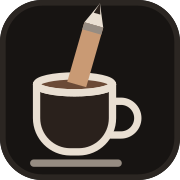
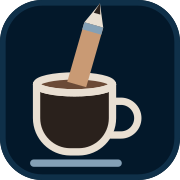
feat: completed minor fixes

Changed region(s): [[0.0, 0.0, 1.0, 1.0], [0.4444, 0.1111, 0.5833, 0.1944]]

diff --git a/app/globals.css b/app/globals.css
@@ -1,12 +1,12 @@
 :root {
   /* Warm-tinted neutrals. Coffee shows up in details (ring stain, steam, copy), not in the palette. */
-  --bg: #0f0d0c;
-  --surface: #171412;
-  --raised: #1e1a17;
-  --line: #2b2622;
-  --text: #ece6df;
-  --muted: #968c82;
-  --faint: #5d554e;
+  --bg: #010e1a;
+  --surface: #03182a;
+  --raised: #06223a;
+  --line: #0f3049;
+  --text: #e8eff5;
+  --muted: #84a0b6;
+  --faint: #4d6b83;
   --cream: #e9dfd2;
 
   /* Team colors, desaturated to sit on a dark ground. */
@@ -164,7 +164,7 @@ body {
 .btn:hover:not(:disabled) { border-color: var(--faint); }
 .btn:active:not(:disabled) { transform: scale(0.97); }
 .btn:disabled { opacity: 0.4; cursor: not-allowed; }
-.btn.primary { background: var(--cream); border-color: var(--cream); color: #1a1512; }
+.btn.primary { background: var(--cream); border-color: var(--cream); color: #010e1a; }
 .btn.primary:hover:not(:disabled) { background: #f3ebe0; }
 .btn.danger { background: #3a1d19; border-color: #5a2a24; color: #f0b3a9; }
 .btn.ghost { background: none; border-color: transparent; color: var(--muted); }
@@ -214,13 +214,13 @@ body {
   place-items: center;
   background: var(--cream);
   border-radius: 22px;
-  box-shadow: 0 0 0 1px #0004, 0 18px 40px -18px #000;
+  box-shadow: 0 0 0 1px #0004, 0 18px 40px -18px #000a;
 }
 .die[data-rolling="true"] { animation: tumble 0.5s linear infinite; }
 @keyframes tumble { to { transform: rotate(360deg); } }
 .pip { width: 1.25rem; height: 1.25rem; border-radius: 50%; background: transparent; }
-.pip[data-on="true"] { background: #1a1512; }
-.die-blank { grid-area: 2 / 2; font-family: var(--font-display); font-size: 3rem; line-height: 1; color: #8a7f74; }
+.pip[data-on="true"] { background: #010e1a; }
+.die-blank { grid-area: 2 / 2; font-family: var(--font-display); font-size: 3rem; line-height: 1; color: #6f8aa0; }
 
 /* Card + timer */
 .card-turn { gap: 1.5rem; }
@@ -328,7 +328,7 @@ body {
 }
 .face-back:hover { border-color: var(--faint); }
 .face-back .stain { transform: scale(1.3) rotate(20deg); opacity: 0.12; }
-.flip-title { position: relative; font-family: var(--font-display); font-size: 2.25rem; line-height: 1; }
+.flip-title { position: relative; margin-top: 0.75rem; font-size: 1.0625rem; font-weight: 600; line-height: 1; }
 .flip-note { position: relative; color: var(--muted); font-size: 0.9375rem; }
 .face-front {
   transform: rotateY(180deg);
@@ -343,7 +343,7 @@ body {
 .flipper { cursor: pointer; }
 .face-front:focus-visible { outline-offset: -3px; border-radius: 20px; }
 .flip-hint { margin: auto 0 0; padding-top: 0.75rem; font-size: 0.875rem; color: var(--faint); }
-.flip-category { position: relative; font-weight: 600; color: var(--team); font-size: 1.0625rem; }
+.flip-category { position: relative; font-family: var(--font-display); color: var(--team); font-size: clamp(2.25rem, 9vw, 2.75rem); line-height: 1.05; text-align: center; text-wrap: balance; }
 
 /* ---------- Modal ---------- */
 
@@ -358,7 +358,7 @@ body {
   box-shadow: 0 30px 80px -20px #000;
 }
 .modal[open] { animation: pop 0.25s var(--ease); }
-.modal::backdrop { background: #0a0807cc; backdrop-filter: blur(4px); }
+.modal::backdrop { background: #000810cc; backdrop-filter: blur(4px); }
 @keyframes pop { from { opacity: 0; transform: translateY(8px) scale(0.98); } }
 .modal-body { padding: 1.75rem 1.5rem 1.5rem; display: flex; flex-direction: column; gap: 1.25rem; }
 .modal-title { margin: 0; font-family: var(--font-display); font-weight: 400; font-size: 2.25rem; line-height: 1.05; }
@@ -412,6 +412,7 @@ body {
   .clock { width: 16rem; flex: none; }
   .clock-time { font-size: 4.5rem; }
   .face { min-height: 22rem; }
+  .flip-category { font-size: 3.5rem; }
   .face-front { padding: 2.5rem 2rem 1.25rem; }
   .face-front .words { grid-template-columns: 1fr 1fr; align-items: center; margin-block: auto; gap: 2rem; }
   .words li { font-size: clamp(2.5rem, 4vw, 3.75rem); }

diff --git a/lib/pictionary/engine.ts b/lib/pictionary/engine.ts
@@ -169,6 +169,16 @@ export const secondsRemaining = (state: GameState, now: number = Date.now()) =>
 export const getScoreboard = (state: GameState) =>
   state.teams.map((t) => ({ ...t, percent: Math.min(100, (t.score / state.winScore) * 100) }));
 
+/** Fills settings added after a game was saved, so older saves keep working. Same object if nothing is missing. */
+export function withDefaults(state: GameState): GameState {
+  if (typeof state.winScore === "number" && typeof state.turnSeconds === "number") return state;
+  return {
+    ...state,
+    winScore: typeof state.winScore === "number" ? state.winScore : DEFAULT_WIN_SCORE,
+    turnSeconds: typeof state.turnSeconds === "number" ? state.turnSeconds : DEFAULT_TURN_SECONDS,
+  };
+}
+
 /** Guards persisted state: it is only valid for the deck it was dealt from. */
 export function isValidState(value: unknown, deckSize: number): value is GameState {
   const s = value as GameState | null;
@@ -176,8 +186,9 @@ export function isValidState(value: unknown, deckSize: number): value is GameSta
     !!s &&
     typeof s === "object" &&
     s.deckSize === deckSize &&
-    typeof s.winScore === "number" &&
-    typeof s.turnSeconds === "number" &&
+    Number.isFinite(s.winScore) &&
+    Number.isFinite(s.turnSeconds) &&
+    (s.deadline === null || Number.isFinite(s.deadline)) &&
     Array.isArray(s.teams) &&
     s.teams.length > 0 &&
     Array.isArray(s.deckRemaining) &&

diff --git a/components/Logo.tsx b/components/Logo.tsx
@@ -4,8 +4,8 @@ import Image from "next/image";
 export function Logo({ size = 64 }: { size?: number }) {
   return (
     <svg width={size} height={size} viewBox="0 0 64 64" fill="none" aria-hidden>
-  <rect width="64" height="64" rx="15" fill="#171412"/>
-  <rect x="1" y="1" width="62" height="62" rx="14" stroke="#2b2622" strokeWidth="2"/>
+  <rect width="64" height="64" rx="15" fill="#03182a"/>
+  <rect x="1" y="1" width="62" height="62" rx="14" stroke="#0f3049" strokeWidth="2"/>
   <g strokeLinecap="round" strokeLinejoin="round">
     <path d="M40 36h3a6 6 0 0 1 0 12h-3.500" stroke="#e9dfd2" strokeWidth="2.600"/>
     <path d="M13 30h27v12a12 12 0 0 1-12 12h-3a12 12 0 0 1-12-12z" fill="#2a211c" stroke="#e9dfd2" strokeWidth="2.600"/>
@@ -14,10 +14,10 @@ export function Logo({ size = 64 }: { size?: number }) {
       <rect x="-3.500" y="-23" width="7" height="22" fill="#c99a74"/>
       <path d="M-3.500-23L0-31l3.500 8z" fill="#e9dfd2"/>
       <path d="M-1.200-27.200L0-31l1.200 3.800z" fill="#2a211c"/>
-      <rect x="-3.500" y="-23" width="7" height="2.600" fill="#968c82"/>
+      <rect x="-3.500" y="-23" width="7" height="2.600" fill="#84a0b6"/>
     </g>
     <path d="M13 30a13.500 3 0 0 0 27 0" stroke="#e9dfd2" strokeWidth="2.600"/>
-    <path d="M12 58h30" stroke="#968c82" strokeWidth="2.600"/>
+    <path d="M12 58h30" stroke="#84a0b6" strokeWidth="2.600"/>
   </g>
     </svg>
   );

diff --git a/lib/pictionary/store.ts b/lib/pictionary/store.ts
@@ -4,6 +4,7 @@ import {
   isValidState,
   resolveTurn,
   revealCard,
+  withDefaults,
   dismissResult,
   showCard,
   type Card,
@@ -21,7 +22,7 @@ const listeners = new Set<() => void>();
 function read(): GameState | null {
   try {
     const raw = localStorage.getItem(KEY);
-    return raw ? (JSON.parse(raw) as GameState) : null;
+    return raw ? withDefaults(JSON.parse(raw) as GameState) : null;
   } catch {
     return null;
   }
@@ -40,6 +41,8 @@ function commit(next: GameState | null) {
 
 function snapshot(): GameState | null {
   if (current === UNLOADED) current = read();
+  // Also repairs a state still held in memory from before a setting existed (e.g. across hot reloads).
+  if (current !== null) current = withDefaults(current);
   return current;
 }
 

diff --git a/app/layout.tsx b/app/layout.tsx
@@ -10,7 +10,7 @@ export const metadata: Metadata = {
   description: "A draw-and-guess party game for one shared screen.",
 };
 
-export const viewport: Viewport = { themeColor: "#0f0d0c", colorScheme: "dark" };
+export const viewport: Viewport = { themeColor: "#010e1a", colorScheme: "dark" };
 
 export default function RootLayout({ children }: LayoutProps<"/">) {
   return (

diff --git a/components/Sketchpad.tsx b/components/Sketchpad.tsx
@@ -17,8 +17,8 @@ export function Sketchpad() {
     ctx.lineCap = "round";
     ctx.lineJoin = "round";
     ctx.lineWidth = 2.5;
-    ctx.strokeStyle = "#ece6df";
-    ctx.fillStyle = "#ece6df";
+    ctx.strokeStyle = "#e8eff5";
+    ctx.fillStyle = "#e8eff5";
 
     let drawing = false;
     const point = (e: PointerEvent) => {

diff --git a/components/Turn.tsx b/components/Turn.tsx
@@ -76,7 +76,7 @@ export function CardTurn({ state }: { state: GameState }) {
     setFaceUp(!faceUp);
   };
 
-  const progress = left / state.turnSeconds;
+  const progress = Math.min(1, Math.max(0, left / state.turnSeconds)) || 0;
   const R = 92;
   const C = 2 * Math.PI * R;
 
